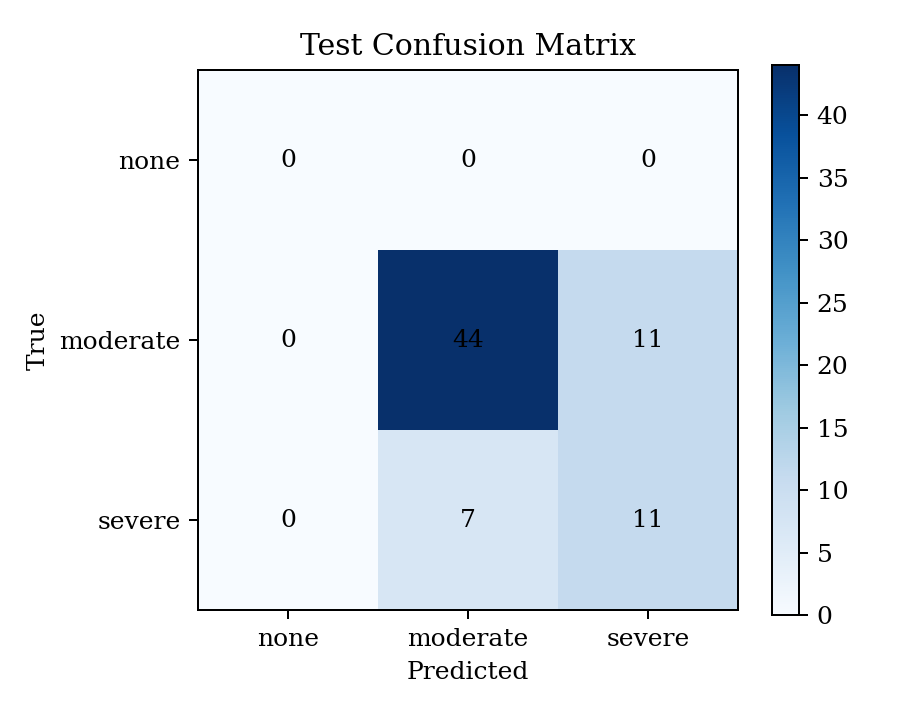
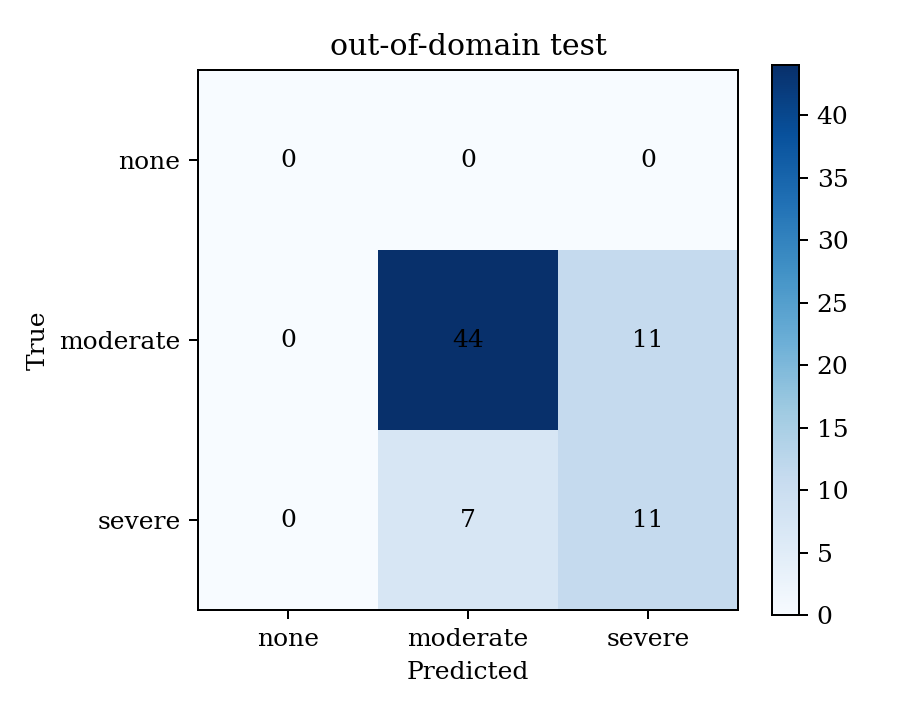
file changes

Changed region(s): [[0.3422, 0.0306, 0.7156, 0.0917]]

diff --git a/pipeline/Train.py b/pipeline/Train.py
@@ -10,7 +10,7 @@ import matplotlib.pyplot as plt
 from datasets import load_dataset, DatasetDict
 from transformers import AutoTokenizer, AutoModel, TrainingArguments, Trainer, DataCollatorForLanguageModeling, AutoModelForMaskedLM
 from sklearn.model_selection import train_test_split
-from sklearn.metrics import f1_score, confusion_matrix, roc_auc_score, roc_curve, auc
+from sklearn.metrics import f1_score, confusion_matrix, roc_auc_score, roc_curve, auc, precision_score, recall_score
 from safetensors.torch import load_file as load_safetensors
 
 plt.rcParams["font.family"] = "serif"
@@ -42,6 +42,8 @@ PERFORMANCE_DIR = "/zi/home/luke.bregulla/Desktop/DSS/pipeline/learning_results_
 OVERALL_METRICS_CSV_PATH = os.path.join(OUTPUT_DIR, "epi_holdout_overall_metrics_V12.csv")
 PER_SESSION_METRICS_CSV_PATH = os.path.join(OUTPUT_DIR, "epi_holdout_metrics_by_session_V12.csv")
 AUC_DETAILS_CSV_PATH = os.path.join(OUTPUT_DIR, "epi_holdout_auc_details_V12.csv")
+PER_SUBJECT_PREDICTIONS_CSV_PATH = os.path.join(OUTPUT_DIR, "epi_holdout_subject_predictions_V12.csv")
+F1_VS_CHANCE_PERMUTATION_CSV_PATH = os.path.join(OUTPUT_DIR, "epi_holdout_macro_f1_vs_chance_permutation_V12.csv")
 BEST_MODEL_DIR = os.path.join(OUTPUT_DIR, "best_model")
 DATA_DISTRIBUTION_PLOT_PATH = os.path.join(PERFORMANCE_DIR, "dataset_class_distribution_train_test.png")
 ROLE_STATS_CSV_PATH = os.path.join(OUTPUT_DIR, "dataset_role_word_token_stats.csv")
@@ -191,6 +193,81 @@ def write_auc_details_csv(output_path, rows):
         )
         writer.writeheader()
         writer.writerows(rows)
+
+
+def write_single_row_csv(output_path, row):
+    os.makedirs(os.path.dirname(output_path), exist_ok=True)
+    with open(output_path, "w", newline="", encoding="utf-8") as f:
+        writer = csv.DictWriter(f, fieldnames=list(row.keys()))
+        writer.writeheader()
+        writer.writerow(row)
+
+
+def write_subject_predictions_csv(output_path, session_labels, true_classes, pred_classes, pred_probs):
+    os.makedirs(os.path.dirname(output_path), exist_ok=True)
+    pred_probs = np.asarray(pred_probs, dtype=float)
+    with open(output_path, "w", newline="", encoding="utf-8") as f:
+        writer = csv.DictWriter(
+            f,
+            fieldnames=[
+                "index",
+                "session",
+                "y_true",
+                "y_pred",
+                "p_none",
+                "p_moderate",
+                "p_severe",
+                "correct",
+            ],
+        )
+        writer.writeheader()
+        for i, (sess, y_t, y_p) in enumerate(zip(session_labels, true_classes, pred_classes)):
+            writer.writerow(
+                {
+                    "index": int(i),
+                    "session": str(sess),
+                    "y_true": int(y_t),
+                    "y_pred": int(y_p),
+                    "p_none": float(pred_probs[i, 0]),
+                    "p_moderate": float(pred_probs[i, 1]),
+                    "p_severe": float(pred_probs[i, 2]),
+                    "correct": int(int(y_t) == int(y_p)),
+                }
+            )
+
+
+def macro_f1_present_labels(y_true, y_pred, label_space=None):
+    y_true = np.asarray(y_true, dtype=np.int64)
+    y_pred = np.asarray(y_pred, dtype=np.int64)
+    if y_true.size == 0:
+        return 0.0
+    labels = np.asarray(np.unique(y_true), dtype=np.int64) if label_space is None else np.asarray(label_space, dtype=np.int64)
+    return float(f1_score(y_true, y_pred, labels=labels.tolist(), average="macro", zero_division=0))
+
+
+def macro_f1_permutation_vs_chance(y_true, y_pred, n_permutations=10000, seed=SEED):
+    y_true = np.asarray(y_true, dtype=np.int64)
+    y_pred = np.asarray(y_pred, dtype=np.int64)
+    label_space = np.asarray(np.unique(y_true), dtype=np.int64)
+    observed = macro_f1_present_labels(y_true, y_pred, label_space=label_space)
+
+    rng = np.random.default_rng(seed)
+    perm_scores = np.empty(n_permutations, dtype=float)
+    for i in range(n_permutations):
+        y_perm = rng.permutation(y_true)
+        perm_scores[i] = macro_f1_present_labels(y_perm, y_pred, label_space=label_space)
+
+    p_value_right = float((np.sum(perm_scores >= observed) + 1) / (n_permutations + 1))
+    return {
+        "n_samples": int(y_true.size),
+        "observed_macro_f1": observed,
+        "null_macro_f1_mean": float(np.mean(perm_scores)),
+        "null_macro_f1_std": float(np.std(perm_scores)),
+        "p_value_right_tailed": p_value_right,
+        "n_permutations": int(n_permutations),
+        "label_space": "|".join([str(int(x)) for x in label_space.tolist()]),
+        "note": "Permutation test: labels permuted against fixed predictions; right-tailed p for better-than-chance macro-F1 (using labels present in holdout y_true).",
+    }
 
 
 def save_ovr_roc_panel(y_true, y_scores, macro_auc, output_path):
@@ -404,6 +481,12 @@ print(f"Train rows: {len(dataset['train'])} | Validation rows: {len(dataset['val
 
 dataset["train"] = dataset["train"].map(lambda x: {"target_class": int(x["labels"])})
 dataset["validation"] = dataset["validation"].map(lambda x: {"target_class": int(x["labels"])})
+
+_split_labels = {"train": np.bincount(np.asarray(dataset["train"]["target_class"], dtype=np.int64), minlength=3),
+                 "validation": np.bincount(np.asarray(dataset["validation"]["target_class"], dtype=np.int64), minlength=3)}
+print("Split class distribution (none / moderate / severe):")
+for _split, _counts in _split_labels.items():
+    print(f"  {_split:>10}: none={_counts[0]}  moderate={_counts[1]}  severe={_counts[2]}  (total={_counts.sum()})")
 
 train_classes = np.asarray(dataset["train"]["target_class"], dtype=np.int64)
 class_weights_np, class_counts = build_class_weights(train_classes)
@@ -798,16 +881,16 @@ if SAVE_PLOTS:
     ax.set_xticklabels(["none", "moderate", "severe"])
     ax.set_yticklabels(["none", "moderate", "severe"])
     ax.set_xlabel("Predicted"); ax.set_ylabel("True")
-    ax.set_title("Validation Confusion Matrix")
+    ax.set_title("in-domain test")
     for i in range(3):
         for j in range(3):
             ax.text(j, i, str(val_cm[i, j]), ha="center", va="center")
     plt.colorbar(im, ax=ax)
     plt.tight_layout()
-    val_cm_path = os.path.join(PERFORMANCE_DIR, "val_confusion_matrix.png")
+    val_cm_path = os.path.join(PERFORMANCE_DIR, "in_domain_test_confusion_matrix.png")
     plt.savefig(val_cm_path, dpi=180)
     plt.close()
-    print(f"Saved validation confusion matrix: {val_cm_path}")
+    print(f"Saved in-domain test confusion matrix: {val_cm_path}")
 
 os.makedirs(PERFORMANCE_DIR, exist_ok=True)
 if did_train_classifier and best_ckpt is not None:
@@ -898,6 +981,13 @@ if test_true_classes is not None:
         else:
             print(f"ROC AUC class {class_id} vs rest: {auc_val:.4f}")
 
+    per_class_precision = precision_score(test_true_classes, test_pred_classes, labels=[0, 1, 2], average=None, zero_division=0)
+    per_class_recall    = recall_score(test_true_classes, test_pred_classes, labels=[0, 1, 2], average=None, zero_division=0)
+    class_names = ["none", "moderate", "severe"]
+    print("Per-class Precision / Recall:")
+    for class_id, name in enumerate(class_names):
+        print(f"  {name:<10}  precision={per_class_precision[class_id]:.4f}  recall={per_class_recall[class_id]:.4f}")
+
     test_cm = confusion_matrix(test_true_classes, test_pred_classes, labels=[0, 1, 2])
     print("Confusion Matrix (rows=true, cols=pred):")
     print(test_cm)
@@ -909,7 +999,7 @@ if test_true_classes is not None:
         ax.set_xticklabels(["none", "moderate", "severe"])
         ax.set_yticklabels(["none", "moderate", "severe"])
         ax.set_xlabel("Predicted"); ax.set_ylabel("True")
-        ax.set_title("Test Confusion Matrix")
+        ax.set_title("out-of-domain test")
         for i in range(3):
             for j in range(3):
                 ax.text(j, i, str(test_cm[i, j]), ha="center", va="center")
@@ -947,7 +1037,28 @@ if test_true_classes is not None:
 
     if "session_id" in dataset["test"].column_names:
         session_labels = parse_session_labels(dataset["test"]["session_id"])
+    else:
+        session_labels = ["unknown"] * int(len(test_true_classes))
 
+    write_subject_predictions_csv(
+        PER_SUBJECT_PREDICTIONS_CSV_PATH,
+        session_labels=session_labels,
+        true_classes=test_true_classes,
+        pred_classes=test_pred_classes,
+        pred_probs=test_pred_probs,
+    )
+    print(f"Saved per-subject prediction CSV: {PER_SUBJECT_PREDICTIONS_CSV_PATH}")
+
+    f1_perm_row = macro_f1_permutation_vs_chance(
+        y_true=test_true_classes,
+        y_pred=test_pred_classes,
+        n_permutations=10000,
+        seed=SEED,
+    )
+    write_single_row_csv(F1_VS_CHANCE_PERMUTATION_CSV_PATH, f1_perm_row)
+    print(f"Saved macro-F1 vs chance permutation CSV: {F1_VS_CHANCE_PERMUTATION_CSV_PATH}")
+
+    if "session_id" in dataset["test"].column_names:
         write_per_session_metrics_csv(
             PER_SESSION_METRICS_CSV_PATH,
             session_labels=session_labels,
@@ -965,11 +1076,6 @@ if test_true_classes is not None:
                 output_path=roc_path,
             )
             print(f"Saved combined ROC panel: {roc_path}")
-            for class_id, auc_val in class_aucs_for_plot.items():
-                if np.isnan(auc_val):
-                    print(f"Class {class_id} ROC AUC: unavailable")
-                else:
-                    print(f"Class {class_id} ROC AUC: {auc_val:.4f}")
 else:
     available_test_columns = ", ".join(dataset["test"].column_names)
     print(